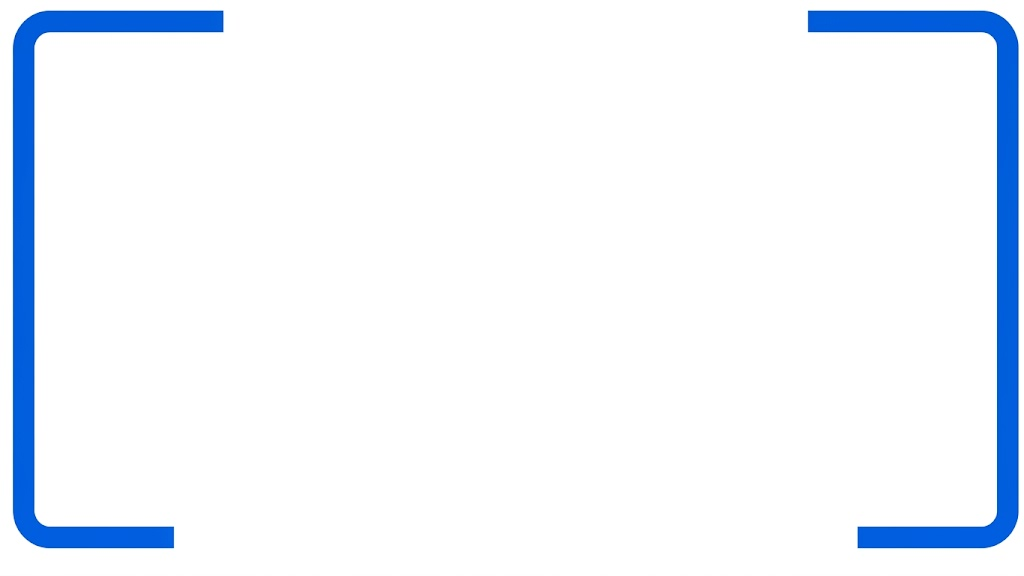
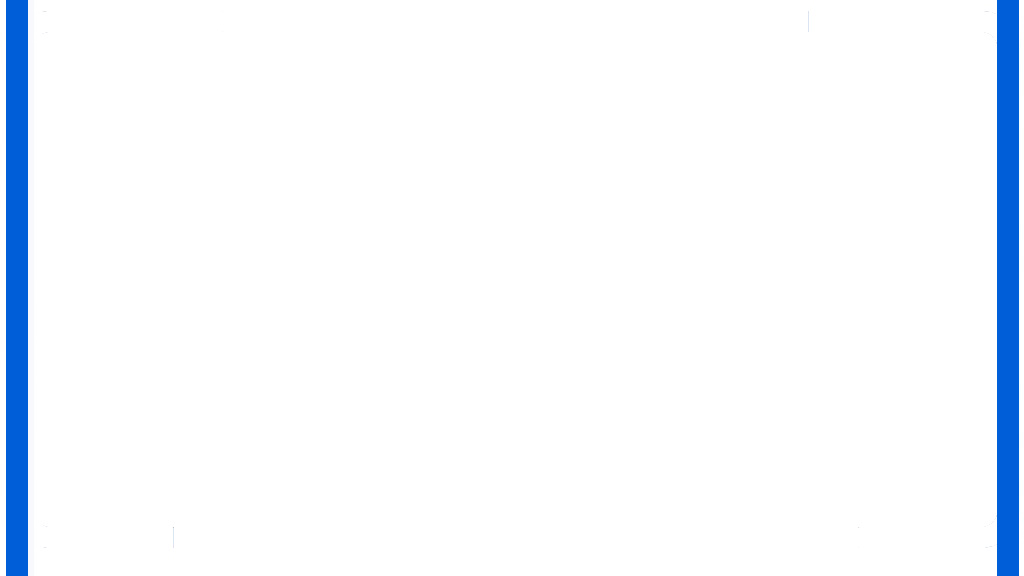
Add files via upload

Changed region(s): [[0.0, 0.0, 0.2188, 1.0], [0.7812, 0.0, 1.0, 1.0]]

diff --git a/ZZRentWeb/index.html b/ZZRentWeb/index.html
@@ -9,31 +9,40 @@
     <title>ZZRent</title>
 </head>
 <body>
-    
     <div class="felso">
-        <img src="img/logo.jpeg" id="logo" srcset="">
-        <input type="text" id="searchBar" class="search-box" placeholder="Keresés az autók között..." onkeyup="renderProducts()">
-        <input type="button" id="loginbutton" value="Login">
+        <img src="img/logo.jpeg" id="logo" alt="ZZRent Logo">
+        <input type="text" id="searchBar" class="search-box" placeholder="Search vehicles..." onkeyup="renderProducts()">
+        <button type="button" id="loginbutton" class="btn btn-primary">Login</button>
     </div>
-    <div class="tartalom">
-        <div class="card" style="width: 18rem;">
-            <img src="img/szemelyicon.jpg" class="card-img-top" alt="...">
-            <div class="card-body">
-                <h5 class="card-title">Személyautók</h5>
-                <p class="card-text">4-5 fő részére</p>
-                <a href="#" class="btn btn-primary">Megnézz</a>
+    <div class="tartalom" id="carContainer">
+        
+        <div class="card car-card" style="width: 18rem;">
+            <img src="img/szemelyicon.jpg" class="card-img-top" alt="Passenger Cars">
+            <div class="card-body d-flex flex-column">
+                <h5 class="card-title">Passenger Cars</h5>
+                <p class="card-text">For 4-5 passengers</p>
+                <a href="#" class="btn btn-primary mt-auto">View Details</a>
             </div>
         </div>
-    </div>
-    <div class="tartalom">
-        <div class="card" style="width: 18rem;">
-            <img src="img/kisbuszWeb.jpg" class="card-img-top" alt="...">
-            <div class="card-body">
-                <h5 class="card-title">Kisbuszok</h5>
-                <p class="card-text">6-9 fő részére</p>
-                <a href="#" class="btn btn-primary">Megnézz</a>
+
+        <div class="card car-card" style="width: 18rem;">
+            <img src="img/kisbuszWeb.jpg" class="card-img-top" alt="Minibuses">
+            <div class="card-body d-flex flex-column">
+                <h5 class="card-title">Minibuses</h5>
+                <p class="card-text">For 6-9 passengers</p>
+                <a href="#" class="btn btn-primary mt-auto">View Details</a>
             </div>
         </div>
+
+        <div class="card car-card" style="width: 18rem;">
+            <img src="img/van.jpg" class="card-img-top" alt="Cargo Vans">
+            <div class="card-body d-flex flex-column">
+                <h5 class="card-title">Cargo Vans</h5>
+                <p class="card-text">For moving & transport</p>
+                <a href="#" class="btn btn-primary mt-auto">View Details</a>
+            </div>
+        </div>
+
     </div>
     <script src="js/fooldal.js"></script>
 </body>

diff --git a/ZZRentWeb/css/fooldal.css b/ZZRentWeb/css/fooldal.css
@@ -1,14 +1,15 @@
 body {
     font-family: Arial, sans-serif;
+    margin: 0;
+    min-height: 100vh;
     background-image: url("../img/background.jpg");
-    background-size: 100% 100vh;
-    background-position: top center;
+    background-size: cover;
+    background-position: center;
     background-repeat: no-repeat;
     background-attachment: fixed;
     display: flex;
     flex-direction: column;
-    min-height: 100vh;
-    margin: 0;
+    box-sizing: border-box;
 }
 
 .felso {
@@ -17,9 +18,10 @@ body {
     box-shadow: 0 2px 8px rgba(0,0,0,0.4);
     text-align: center;
     padding: 15px 10px;
-    width: 85%;
+    width: 90%;
     max-width: 1000px;
-    margin: 30px auto 10px auto; 
+    margin: 20px auto 10px auto; 
+    box-sizing: border-box;
 }
 
 #logo {
@@ -57,9 +59,14 @@ body {
 }
 
 .tartalom {
-    text-align: center;
+    display: flex;
+    flex-wrap: wrap;
+    justify-content: center;
+    align-items: stretch;
+    gap: 20px;
     width: 90%;
-    max-width: 300px;
-    padding-top: 25px;
+    max-width: 1000px;
     margin: 0 auto;
+    padding-top: 25px;
+    box-sizing: border-box;
 }
